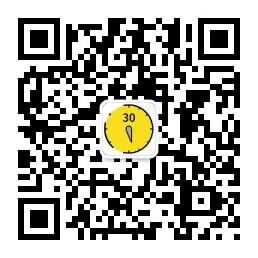
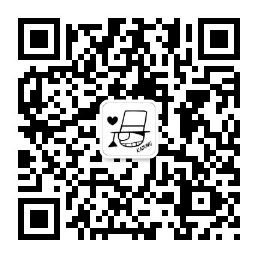
feat: update qr-code

Changed region(s): [[0.4031, 0.4031, 0.6202, 0.6202]]

diff --git a/README.md b/README.md
@@ -4,7 +4,7 @@ React从理念到源码，这一本就够了。
 
 关注公众号拉你进源码交流群和小伙伴们一起交流`React`源码，`React Contributor`在线答疑。
 
-<img width="200" src="https://p2.ssl.qhimg.com/t0159a40299084c799d.jpg" />
+<img width="200" src="https://p4.ssl.qhimg.com/t0125877eac50823b5a.jpg" />
 
 ## 参考资料
 

diff --git a/docs/me.md b/docs/me.md
@@ -1,4 +1,6 @@
-## 30秒学前端
+## 魔术师卡颂
+
+我是最会变魔术的前端工程师卡颂，
 
 关注公众号，拉你进群和小伙伴们一起交流`React`源码
 
